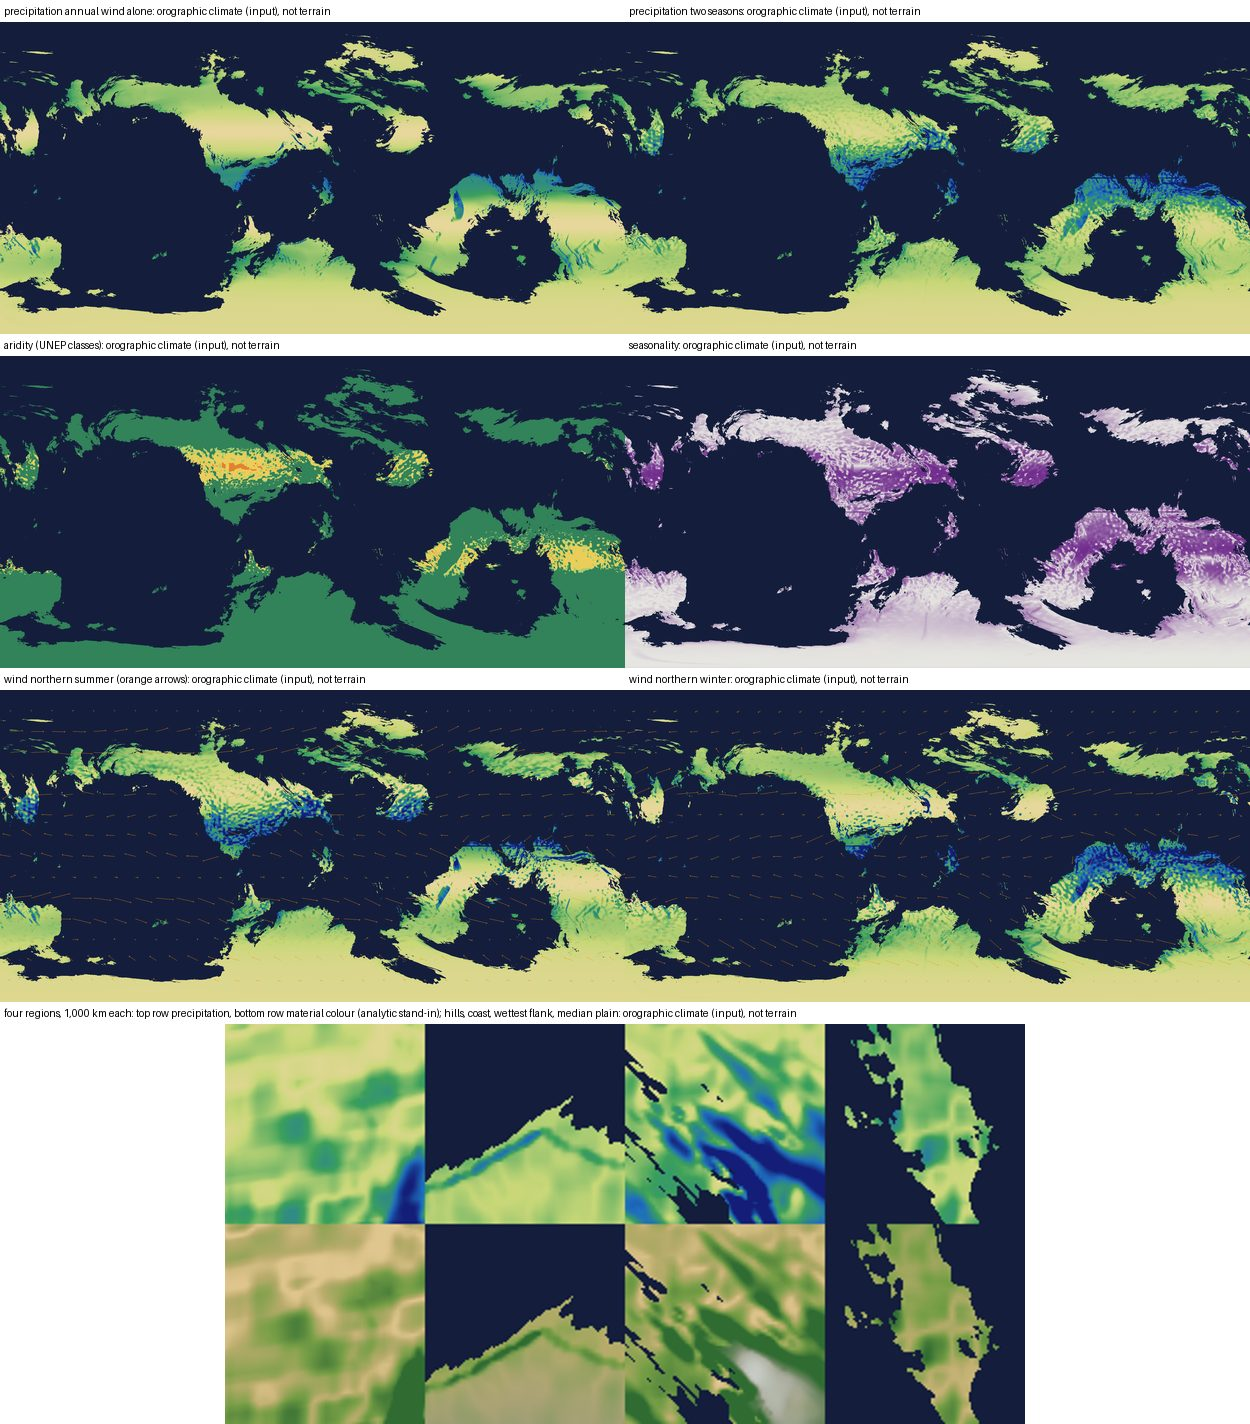
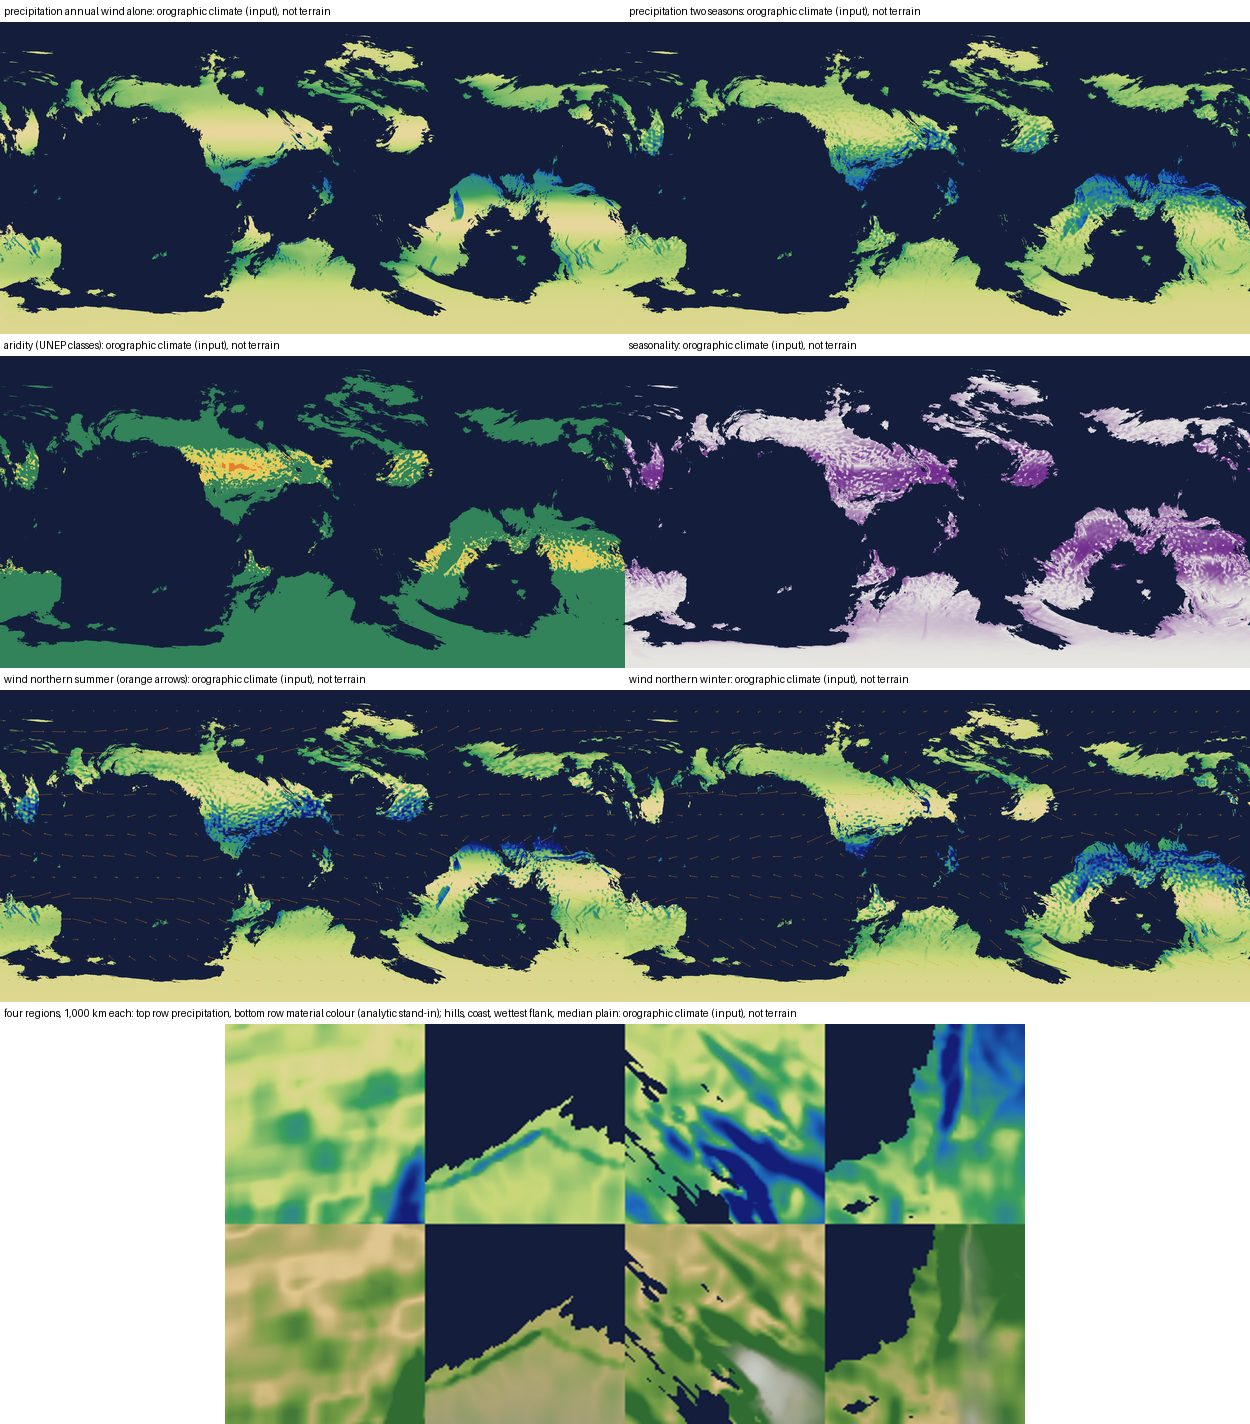
orographic-precip: numerics-review fixes (smooth monsoon sign, polar wind fade, pins, stronger tests, fine lattice up to 1024)

diff --git a/crates/generators/tests/orography.rs b/crates/generators/tests/orography.rs
@@ -94,32 +94,43 @@ fn the_field_is_continuous_across_a_face_edge() {
     for f in 0..6u8 {
         for k in 0..32 {
             let t = -0.9 + 1.8 * f64::from(k) / 31.0;
-            let a = planet_core::cube::face_to_direction(&tw, planet_core::Face(f), 1.0 - 1e-7, t);
-            let b = planet_core::cube::face_to_direction(&tw, planet_core::Face(f), 1.0 + 1e-7, t);
-            if planet_core::cube::direction_to_face(&tw, a).0 != planet_core::cube::direction_to_face(&tw, b).0 {
-                crossed += 1;
+            // The +s edge and the -t edge of the face: a point just inside and one just outside, which the next face holds.
+            for (inside, outside) in [((1.0 - 1e-7, t), (1.0 + 1e-7, t)), ((t, -1.0 + 1e-7), (t, -1.0 - 1e-7))] {
+                let a = planet_core::cube::face_to_direction(&tw, planet_core::Face(f), inside.0, inside.1);
+                let b = planet_core::cube::face_to_direction(&tw, planet_core::Face(f), outside.0, outside.1);
+                if planet_core::cube::direction_to_face(&tw, a).0 != planet_core::cube::direction_to_face(&tw, b).0 {
+                    crossed += 1;
+                }
+                worst = worst.max((o.precipitation_mm(a) - o.precipitation_mm(b)).abs());
             }
-            worst = worst.max((o.precipitation_mm(a) - o.precipitation_mm(b)).abs());
         }
     }
-    assert!(crossed > 150, "the pairs lie on two faces: {crossed}");
+    assert!(crossed > 300, "the pairs lie on two faces: {crossed}");
     assert!(worst < 0.5, "a jump of {worst} mm across a face edge");
 }
 
 // spec: GEN-117
 #[test]
-fn more_iterations_change_the_annual_precipitation_by_under_two_percent() {
+fn more_iterations_change_the_annual_precipitation_by_under_two_percent_on_average_and_five_at_most_points() {
     let (a, b) =
-        (Orography::build_iterations(5, &Ridge, 96, &SEASONS, 96, 4), Orography::build_iterations(5, &Ridge, 96, &SEASONS, 192, 4));
-    let (mut sum_diff, mut sum) = (0.0, 0.0);
+        (Orography::build_iterations(5, &Ridge, 192, &SEASONS, 96, 4), Orography::build_iterations(5, &Ridge, 192, &SEASONS, 192, 4));
+    let (mut sum_diff, mut sum, mut changes) = (0.0, 0.0, Vec::new());
     for lat in [-60.0, -30.0, 0.0, 15.0, 30.0, 45.0, 60.0] {
         for lon in [-60.0, -30.0, -1.0, 4.0, 30.0, 90.0, 150.0] {
             let d = at(lon, lat);
-            sum_diff += (a.precipitation_mm(d) - b.precipitation_mm(d)).abs();
-            sum += b.precipitation_mm(d);
+            let (pa, pb) = (a.precipitation_mm(d), b.precipitation_mm(d));
+            sum_diff += (pa - pb).abs();
+            sum += pb;
+            changes.push((pa - pb).abs() / pb.max(50.0));
         }
     }
+    changes.sort_by(f64::total_cmp);
     assert!(sum_diff < 0.02 * sum, "the mean change of the annual precipitation is {:.2} %", 100.0 * sum_diff / sum);
+    assert!(
+        changes[changes.len() * 19 / 20] < 0.05,
+        "the 95th percentile of the point changes is {:.1} %",
+        100.0 * changes[changes.len() * 19 / 20]
+    );
 }
 
 // spec: GEN-130
@@ -155,4 +166,73 @@ fn the_preview_is_the_same_bytes_for_any_thread_count_and_labels_its_images_as_i
     }
     assert!(dir.join("orography.txt").is_file());
     let _ = std::fs::remove_dir_all(&dir);
+}
+
+/// A flat world with the sea everywhere (no relief, no land): the rain is the zonal bands alone.
+struct Ocean;
+
+impl BaseElevation for Ocean {
+    fn e0(&self, _d: Vec3) -> f64 {
+        -3000.0
+    }
+
+    fn land_depth(&self, _d: Vec3) -> f64 {
+        -1.0
+    }
+}
+
+/// A flat land that begins 5 degrees north of the equator (land where the latitude is above 5 degrees), no relief: the land-sea gradient points north at the equator.
+struct NorthernLand;
+
+impl BaseElevation for NorthernLand {
+    fn e0(&self, d: Vec3) -> f64 {
+        if lon_lat(d).1 > 5.0 {
+            0.0
+        } else {
+            -3000.0
+        }
+    }
+
+    fn land_depth(&self, d: Vec3) -> f64 {
+        lon_lat(d).1 - 5.0
+    }
+}
+
+// spec: GEN-117
+#[test]
+fn a_flat_sea_world_rains_the_zonal_bands_and_the_equator_and_the_pole_show_no_artefact() {
+    use planet_generators::global::rain_bands_mm;
+    let sea = Orography::build(5, &Ocean, 96, &ANNUAL_WIND, 4);
+    for lat in [-60.0, -30.0, 0.0, 15.0, 45.0, 70.0] {
+        let (p, want) = (sea.precipitation_mm(at(20.0, lat)), rain_bands_mm(lat));
+        // The vapour that cold air can carry limits the rain at high latitudes (about 0.7 of the bands at 60 degrees) and the convergence of the trades adds at the equator (about 1.2).
+        assert!(p > 0.65 * want && p < 1.3 * want, "lat {lat}: {p:.0} mm against the bands' {want:.0} mm");
+    }
+    // The monsoon term changes sign at the equator smoothly: on a coast 5 degrees north, neither season rains a line at the equator.
+    let coast = Orography::build(5, &NorthernLand, 96, &SEASONS, 4);
+    for k in 0..2 {
+        let line = coast.season_precipitation_mm(k, at(30.0, 0.0));
+        let around = [-4.0, -2.0, 2.0, 4.0].iter().map(|lat| coast.season_precipitation_mm(k, at(30.0, *lat))).fold(0.0, f64::max);
+        assert!(line < 1.5 * around + 50.0, "season {k}: {line:.0} mm on the equator against {around:.0} mm around it");
+    }
+    // The wind fades at the pole: the rain at the pole is that of 0.1 degrees away.
+    for lon in [0.0, 90.0, 200.0] {
+        let (pole, near) = (sea.precipitation_mm(at(lon, 90.0)), sea.precipitation_mm(at(lon, 89.9)));
+        assert!((pole - near).abs() < 0.05 * near + 5.0, "lon {lon}: pole {pole:.0} mm, near it {near:.0} mm");
+    }
+}
+
+const RECORDED_OROGRAPHY_VERSION: u32 = 1;
+const KNOWN_PRECIPITATION: [u32; 5] = [1143160140, 1143253288, 1142953300, 1141971919, 1151450676];
+
+// spec: GEN-117
+#[test]
+fn the_precipitation_is_pinned_so_that_a_change_of_the_model_must_bump_its_version() {
+    assert_eq!(OROGRAPHY_VERSION, RECORDED_OROGRAPHY_VERSION, "the known answers belong to this version: re-pin both together");
+    let o = Orography::build(5, &Ridge, 24, &SEASONS, 2);
+    let got: Vec<u32> = [(-1.0, 45.0), (4.0, 45.0), (30.0, 15.0), (100.0, -40.0), (-20.0, 0.0)]
+        .iter()
+        .map(|&(lon, lat)| (o.precipitation_mm(at(lon, lat)) as f32).to_bits())
+        .collect();
+    assert_eq!(got, KNOWN_PRECIPITATION, "the climate changed: bump OROGRAPHY_VERSION and re-pin");
 }

diff --git a/crates/generators/src/orography.rs b/crates/generators/src/orography.rs
@@ -1,6 +1,6 @@
 //! The orographic climate: a wind field and a linear orographic precipitation model run for two seasons (GEN-117; ADR 0104 points 1 and 2; SPIKE-102 F2 and F3).
 //!
-//! CPU-canonical: `libm` for every transcendental, integer hashing for every random number, a **fixed number of order-independent iterations** in f64, the same bits for any thread count (CON-14).
+//! CPU-canonical: `libm` for every transcendental, integer hashing for every random number, a **fixed number of order-independent iterations** (f64 forcing, f32 lattices), the same bits for any thread count (CON-14).
 //! The field is built in memory from a [`BaseElevation`] (the class source's base elevation `e0`, before the hill band and before the class relief driver `k`, so the class weights, which read the
 //! aridity, never feed back into the rain), read bilinearly by direction, never stored, and keyed by [`OROGRAPHY_VERSION`], which a consumer folds into its keys. All numbers are start values.
 //!
@@ -64,6 +64,8 @@ pub const WIND_TURN_DEG: f64 = 25.0;
 /// The strength of the land-sea heating term in m/s at most, and the land-fraction gradient (per radian) at which it is full.
 pub const MONSOON_MS: f64 = 6.0;
 const MONSOON_GRADIENT: f64 = 3.0;
+/// The latitude beyond which the wind fades to nothing at the pole, in degrees.
+const POLAR_FADE_DEG: f64 = 80.0;
 /// The fastest wind in m/s.
 pub const WIND_MAX_MS: f64 = 15.0;
 /// One iteration in seconds, the number of iterations (the travel of about 1,300 km at 10 m/s), and the last ones whose rain is averaged.
@@ -202,11 +204,14 @@ fn wind_at(seed: u64, land: &LandField, season: &Season, d: Vec3) -> Vec3 {
         let g = land.gradient(d);
         let len = g.length();
         if len > 1e-9 {
-            let own_summer = if d.z < 0.0 { -season.sign } else { season.sign };
+            // The summer hemisphere changes at the equator over a few degrees (a step would be a line of convergence).
+            let own_summer = season.sign * libm::tanh(lat / 4.0);
             let strength = MONSOON_MS * season.monsoon * (len / MONSOON_GRADIENT).min(1.0) * libm::cos(lat.to_radians());
             w = w + g * (own_summer * strength / len);
         }
     }
+    // Towards the poles the wind fades (the field has no direction at the pole itself).
+    w = w * (libm::cos(lat.to_radians()) / libm::cos(POLAR_FADE_DEG.to_radians())).min(1.0);
     let speed = w.length();
     if speed > WIND_MAX_MS {
         w = w * (WIND_MAX_MS / speed);

diff --git a/crates/generators/src/orography_preview.rs b/crates/generators/src/orography_preview.rs
@@ -8,7 +8,7 @@ use crate::classes::EARTH_RADIUS_M;
 use crate::dump::Rgba;
 use crate::lithology::ProvinceLattice;
 use crate::lithology_preview::{direction, lerp, lon_lat, rgba, OCEAN};
-use crate::orography::{aridity_index, BaseElevation, Orography, ANNUAL_WIND, OROGRAPHY_VERSION, SEASONS};
+use crate::orography::{aridity_index, BaseElevation, Orography, ANNUAL_WIND, OROGRAPHY_VERSION};
 use planet_core::par::{self, Par};
 use planet_core::Vec3;
 use std::path::Path;
@@ -126,7 +126,7 @@ fn line(img: &mut Rgba, x0: i64, y0: i64, x1: i64, y1: i64, c: [u8; 4]) {
 }
 
 /// The ratios of the precipitation 100 to 300 km on the windward side of a belt to that on its lee side, over the crossings of the province lattice's belts (core term above 0.6, the wind across the belt at
-/// least 2 m/s, the crest at least 500 m above both sides, both sides land): the number of crossings and the median, p10 and p90 and the shares above 1.5 and 3.
+/// least 2 m/s, the crest at least 300 m above both sides, both sides land): the number of crossings and the median, p10 and p90 and the shares above 1.5 and 3.
 pub struct RatioStats {
     pub crossings: usize,
     pub median: f64,
@@ -375,7 +375,7 @@ pub fn preview(
     text.push_str(&format!(
         "version {OROGRAPHY_VERSION}, seed {seed}, {km} km a pixel, lattice {} cells a face edge, {} seasons, {} land pixels\n",
         two.cells(),
-        SEASONS.len(),
+        two.seasons().len(),
         ps.len()
     ));
     text.push_str(&format!(

diff --git a/crates/app/src/lib.rs b/crates/app/src/lib.rs
@@ -611,8 +611,8 @@ pub fn parse_args(args: &[String]) -> Result<Options, String> {
             "--fine-lattice" => {
                 let n: usize =
                     it.next().ok_or("--fine-lattice needs a number of cells")?.parse().map_err(|e| format!("--fine-lattice: {e}"))?;
-                if !(64..=2048).contains(&n) {
-                    return Err(format!("--fine-lattice {n} must be from 64 to 2048 cells a face edge"));
+                if !(64..=1024).contains(&n) {
+                    return Err(format!("--fine-lattice {n} must be from 64 to 1024 cells a face edge"));
                 }
                 o.fine_lattice = Some(n);
             }
@@ -1741,7 +1741,7 @@ mod tests {
         let e = run_str(&["generate", "--climate-preview", &dir, "--seed", "3", "--world", "w.toml"]).unwrap_err();
         assert!(e.contains("--world and --seed"), "{e}");
         let e = run_str(&["generate", "--climate-preview", &dir, "--fine-lattice", "63"]).unwrap_err();
-        assert!(e.contains("--fine-lattice 63 must be from 64 to 2048"), "{e}");
+        assert!(e.contains("--fine-lattice 63 must be from 64 to 1024"), "{e}");
         let e = run_str(&["generate", "--fine-lattice", "512", "--seed", "3"]).unwrap_err();
         assert!(e.contains("--fine-lattice applies to --climate-preview"), "{e}");
     }

diff --git a/docs/dev_screenshots/README.md b/docs/dev_screenshots/README.md
@@ -21,4 +21,4 @@ Name: `<YYYY-MM-DD>-<description>.png` (lowercase, dashes). Keep each file under
 | `2026-11-05-look-d1-curves-synthetic-sheet.jpg` | The sample ground look on the baked channels (`docs/looks/ground-channels-d1.look.toml`, SPIKE-100 D1; crusader, RTX, `look_stills`): left the Earth default, right the D1 curves, at 30 m and 1.8 m over the scripted hill and crater site. The channels are SYNTHETIC (a made-up crater floor with deposits and a large drainage area, thin deposits at the hill feet), because no rebaked store exists yet: the sheet shows what the curves do, not the real planet. A proposal for the owner's look, not the default. |
 | `2026-11-05-lithology-preview-sheet.jpg` | The lithology field's planet preview (crusader, seed 14, `generate --lithology-preview`, 16 km a pixel; ADR 0102, GEN-116, GEN-122): hardness H (blue hard, red soft), the erodibility K at the surface with the caprock black, the soluble flag, and a vertical cross-section along a great circle from a mountain belt into a basin (x distance, y height, colour K, caprock hatched, the surface on top). Every panel is the lithology field, an INPUT of the carve, not terrain; all values are start values for the owner's review (numbers in `lithology.txt` of the run). |
 | `2026-11-05-uplift-preview-sheet.jpg` | The uplift field's planet preview (crusader, seed 14, `generate --uplift-preview`, 16 km a pixel; GEN-123, GEN-125): the uplift U (the ratio U/K at K 1: cratons 2, flats 24, belts up to 70, land mean 20.1 against today's uniform 20), the steepness U/K at the surface against its mean (log scale), and a section from a belt over a back-arc to a craton. Every panel is labelled as an input, not terrain; start values for the owner's preview round. |
-| `2026-11-05-orographic-climate-sheet.jpg` | The orographic climate's planet preview (crusader, seed 14, `generate --climate-preview`, 16 km a pixel, 512-cell lattice; GEN-117, GEN-130, ADR 0104): the annual precipitation with the annual wind alone and with two seasons, the aridity (UNEP classes), the seasonality, the wind of both seasons, and the four regions (top row precipitation, bottom row an analytic material colour). Land mean 1,054 mm, 20 % of the warm land dry (Earth 30 to 40 %), windward over lee median 1.6 across 25 belt crossings. Start values for the owner's preview round; every panel is labelled as an input, not terrain. |
+| `2026-11-05-orographic-climate-sheet.jpg` | The orographic climate's planet preview (crusader, seed 14, `generate --climate-preview`, 16 km a pixel, 512-cell lattice; GEN-117, GEN-130, ADR 0104): the annual precipitation with the annual wind alone and with two seasons, the aridity (UNEP classes), the seasonality, the wind of both seasons, and the four regions (top row precipitation, bottom row an analytic material colour). Land mean 996 mm, 20 % of the warm land dry (Earth 30 to 40 %), windward over lee median 1.6 across 25 belt crossings. Start values for the owner's preview round; every panel is labelled as an input, not terrain. |

diff --git a/openspec/changes/orographic-precip/design.md b/openspec/changes/orographic-precip/design.md
@@ -33,7 +33,7 @@
 
 ## Start values after the first preview (seed 14, 512 cells)
 - Wind bands: trades 8 m/s easterly at 15 degrees, westerlies 12 m/s at 45, polar easterlies 5 at 78; the wind bands shift 12 degrees with the season, the rain bands 5 (the dry belts stay dry); a monsoon term of up to 6 m/s; condensation efficiency 0.18; an upslope threshold of 0.02 m/s; 96 iterations of 1,300 s; the land recycles up to 0.55 of its saturation column with a lag of 60,000 s.
-- Land mean precipitation 1,054 mm (annual wind alone 689 mm); dry land (aridity under 0.5) 10 % of all land and 20 % of the land warmer than 5 degrees C (Earth's: 30 to 40 %); the subtropical bands are 36 % dry; the equatorial bands are wet (2,900 to 3,100 mm).
+- Land mean precipitation 996 mm (annual wind alone 689 mm); dry land (aridity under 0.5) 10 % of all land and 20 % of the land warmer than 5 degrees C (Earth's: 30 to 40 %); the subtropical bands are 36 % dry; the equatorial bands are wet (2,400 to 2,600 mm).
 - Windward over lee ratio across belts: median 1.62 at 512 cells and 1.53 at 1,024 (25 crossings), inside the start target of 1.5 to 4 and under Earth's references; the first lever is the condensation efficiency, whose rise wets the tropics too.
-- The equatorial convergence line (the thermal equator, 12 degrees either side with the season) draws a thin rain line on a landmass: a start-value artefact the owner can judge.
+- The thermal equator (12 degrees either side with the season) draws a thin convergence rain line on a landmass: a start-value feature the owner can judge; the wind fades to nothing at the poles and the monsoon term changes sign smoothly at the equator.
 - The test hook: `PLANET_OROGRAPHY_CELLS` (`.cargo/config.toml`, 48) gives tests a coarse lattice; a release build ignores it.
